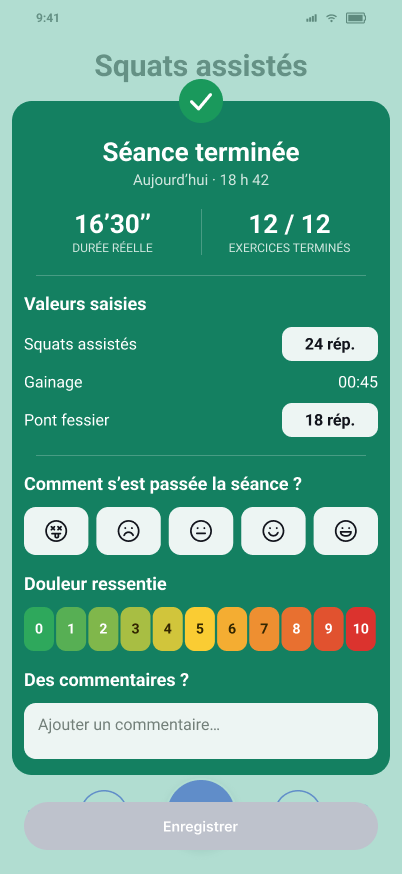
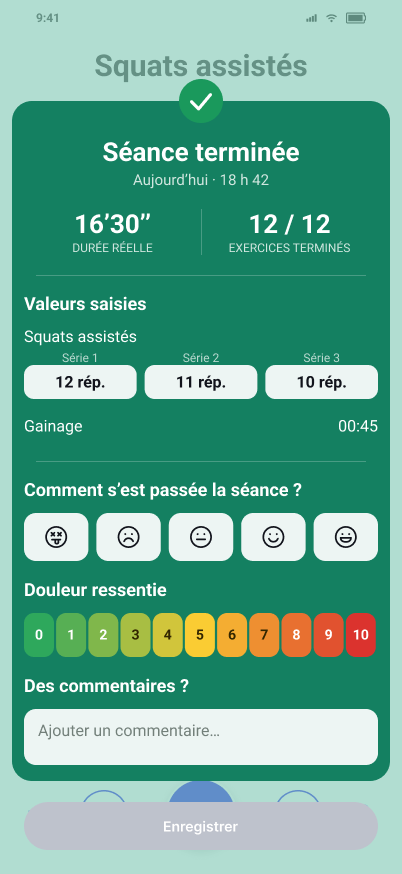
docs(D-578): valeurs saisies en colonnes par tour ou série
Classe B. Tests non applicables.

Claude-Session: https://claude.ai/code/session_0138cCmJPZqMKdiqcqtCSEpU

Changed region(s): [[0.0299, 0.3707, 0.9851, 0.8959]]

diff --git a/docs/Specifications-fonctionnelles/07 – Registre des décisions de conception.md b/docs/Specifications-fonctionnelles/07 – Registre des décisions de conception.md
@@ -2440,7 +2440,7 @@ Source : [KODJO-Catalogues-cartes-modales-2026-11-06](../KODJO-Catalogues-cartes
 | D-575 | **Pages des formats Tabata, 30/30, HIIT et Renforcement ; modale du Renforcement.** (1) Tabata, 30/30, HIIT : colonne « Objectif » renommée « Intervalle » ; la Durée totale est la dernière ligne du cadre des paramètres (après Exécution et, pour le Tabata à la suite, après « Récupération entre les mouvements ») ; la colonne Charge disparaît : la charge est écrite sous la valeur de l'intervalle, en plus petit et entre parenthèses, et rien n'est affiché quand il n'y a pas de charge. (2) Renforcement : même règle pour la charge (sous la valeur de la colonne Objectif) ; la Durée totale vient après la ligne Exécution ; la première colonne du tableau est « Séries » (nombre de séries de chaque mouvement) ; la ligne globale « Nombre de séries » est supprimée de la page. (2 bis) Death by : la charge est écrite sous la valeur de la colonne Départ, comme au point 1, et la colonne Charge disparaît. (2 ter) Dans les tableaux de ces formats, la dernière colonne est alignée à droite. (3) Modale « Paramètres d'exécution » du Renforcement : un premier cadre porte le Mode seul ; un deuxième réunit Nombre de répétitions, Nombre de séries, Pause et Charge ; un troisième De chaque côté + Cadence (D-572). (3 bis) Renforcement, nombre de séries : « À la suite », chaque mouvement a son propre nombre de séries ; « En alternance », les mouvements partagent les tours : le nombre de séries est commun et lié (le modifier pour un mouvement le modifie pour tous, dans le tableau comme dans la modale) ; le passage à « À la suite » conserve la valeur actuelle de chaque mouvement, qui peuvent ensuite différer. (4) Zone de contexte (Composition) : la durée totale est alignée à droite, en noir, au premier plan, par-dessus l'emplacement de l'illustration ; Progression : Durée totale après Exécution. Décisions de Hermann, 26/11/2026 ; la ligne Pause de la modale porte la colonne Pause de la page. | Validée — 26/11/2026 | [KODJO-Formats-entrainement-2026-11-02](../KODJO-Formats-entrainement-2026-11-02.md) § 9.10 |
 | D-576 | **Exécution d'un exercice : permutation des vues et changement de média.** (1) Un glissé horizontal (gauche ou droite) sur la zone du haut permute cadran ↔ gros chiffres ; sur la zone du bas (carte des informations ou média) il permute infos ↔ média. (2) Aucun écran d'exécution ne comporte de bouton ⇄ (retirés partout dans Figma le 26/11/2026) : la permutation des vues se fait uniquement par le glissé. [Remplace le bouton de changement de face de D-203 et la proposition du 26/11/2026 de deux boutons ⇄.] (3) Le glissé ne change plus de média : le changement de média se fait avec des flèches gauche/droite sur la zone média ; la galerie reste à plusieurs médias, ordre de la galerie, non circulaire, flèche inactive à la borne, pagination conservée. (4) Le média reste à la taille du demi-écran tant que le bouton d'extension n'est pas actionné ; les flèches de changement de média existent aussi en plein écran. Décisions de Hermann, 26/11/2026. | Validée — 26/11/2026 | [CONCEPTION-EXECUTION-MEDIA](../CONCEPTION-EXECUTION-MEDIA.md) § 5 |
 | D-577 | **Écran « Avant la séance » (affiché avant l'écran d'exécution avec le compte à rebours).** (1) Contenu : en-tête DSF avec bouton Retour et, pour titre, le nom de la séance (pas de zone de contexte, pas de trait de séparation) ; liste en lignes de texte, sans rail ni cartes (ce n'est pas une copie de la composition), des exercices, cycles et circuits qui vont être exécutés, dans l'ordre de la composition, avec le format de chaque circuit mis en évidence (chiffre en premier : « 8 tours · TABATA » (nom du format en majuscules, pour qu'on voie bien quel format est utilisé ; « Circuit libre » quand le circuit n'a pas de format), « 3 tours · Circuit libre », « 2 cycles » ; sans le détail des durées ni la nature groupées/alternées) ; bouton Commencer. (2) Lancement dans un Programme dont l'option douleur est active (D-427) : échelle de douleur 0–10 (libellé « Douleur ressentie avant la séance », sans légende : les cases 0 à 10 sont colorées du vert au rouge selon leur niveau, les couleurs suffisant à indiquer le sens de l'échelle) obligatoire, sans présélection, Le bouton de départ est inactif tant qu'aucun chiffre n'est choisi ; l'écran est toujours affiché. (3) Autre lancement : pas d'échelle de douleur ; une case à cocher « Ne plus afficher cet écran » est proposée, uniquement dans ce cas, en plus petit, hors du cadre vert, entre le cadre de la liste et celui de la douleur. Elle désactive l'affichage de l'écran pour cette séance seulement, jusqu'à ce que l'ordre ou le contenu de la séance (exercices, cycles, circuits, formats) change ; un changement des paramètres d'exécution (durées, répétitions) ne le fait pas réapparaître. Pour toutes les séances, le réglage « Afficher l'écran de démarrage de séance » (interrupteur, activé par défaut, premier réglage du groupe Séance de Profil › Préférences) affiche l'écran pour toute séance ; désactivé, il ne l'affiche pour aucune. La capture de la douleur ne dépend que du Programme (option douleur, D-427) et n'est pas concernée : les deux informations (liste de la séance, douleur) sont distinctes ; avec l'option douleur active, ni la case ni le réglage ne suppriment la capture : quand l'affichage est désactivé, seule la douleur est demandée : même écran, avec uniquement le deuxième cadre (douleur et départ), centré verticalement sur la page. [Remplace la mention « Facultatif. Sans réponse, la douleur est notée 0 » de l'ancienne version de l'écran, contraire à D-427.] (4) Parcours de plusieurs séances : l'écran existe en deux versions, une pour la première séance, une pour les suivantes (rang ≥ 2, écran de transition avant la séance suivante). La douleur est demandée une seule fois, sur la version de la première séance, et appliquée à toutes les séances du parcours ; la version des séances suivantes n'a pas d'échelle de douleur. Cette version est dessinée dans l'écran Figma « Exécution d'une séance — Initial — Enchaînement (proposition) » (`12716:25405`), qui reprend la présentation de l'écran de la première séance sans l'échelle de douleur (un seul grand cadre vert centré dans la page, contenant le titre, la liste et le bouton « Appuyer pour démarrer la 2ème séance » ; sans « du parcours »), sur le voile vert. (5) Présentation : le premier écran d'exécution de la séance est visible en fond, recouvert sur toute la hauteur du voile vert de l'écran de transition entre séances (DSF-AGENDA), identique à celui de l'écran de transition (même teinte, ≈ 35 %), posé sur un voile blanc à 50 % qui estompe l'écran d'exécution sans assombrir le vert ; le nom n'est pas affiché dans l'en-tête, il l'est comme titre de la carte ; le contenu est porté par une carte blanche, le bouton Retour DSF restant au-dessus du voile. La liste est présentée en une seule taille de texte agrandie (22 pt pour cycles, circuits, formats et exercices ; le titre « Mobilisation du genou » reste à sa taille propre, 26 pt), avec un espace supplémentaire avant chaque bloc circuit ou format (ex. Tabata), les cycles, circuits et formats se distinguant par le gras, sur une carte vert foncé (celui de l'encadré de la transition entre séances) aux textes blancs, avec une indentation par niveau (cycle, circuit, exercices du circuit) ; le titre de la carte (nom de la séance, ou du parcours : « Mobilisation du genou » dans l'écran) est affiché en plus grand, en gras, centré, avec davantage d'espace au-dessus et en dessous, à égale distance du haut du cadre et d'une ligne de pointillés blancs qui le sépare de la liste ; si le titre est trop long, il passe sur deux lignes ; si la liste est plus longue, la carte s'étend vers le haut (le bas reste ancré au-dessus de la carte douleur et départ) ; si elle dépasse encore la hauteur disponible, seule la liste défile, le titre restant toujours visible ; la douleur et Commencer sont sur une carte distincte, en bas de l'écran, de même vert foncé, libellé (gras, 22 pt comme les cycles et circuits) et légende en blanc. Les textes de la liste, de l'échelle de douleur et du bouton de départ sont en Roboto. Chaque exercice de la liste, hors le premier mis en avant, est précédé d'un petit point de liste. (6) Bouton de départ, de hauteur doublée (96 pt) et à texte agrandi : « Appuyer pour démarrer la séance » (séance lancée seule), « Appuyer pour démarrer le parcours » (première séance d'un parcours), « Appuyer pour démarrer la Xème séance du parcours » (séances suivantes), en texte agrandi sur deux lignes, sur fond blanc avec texte bleu du DSF et un effet de relief porté par le bouton lui-même (léger dégradé et bord inférieur épais, sans ombre portée) qui le fait lire comme un bouton (le bouton bleu standard manque de contraste sur le vert). Le chiffre choisi ressort par une case nettement plus grande (≈ 40 × 58 pt), un chiffre plus gros et une ombre portée, sans liseré. Avec l'échelle de douleur, il est inactif tant qu'aucun chiffre n'est choisi ; état inactif (Figma `13419:1329`) : bouton sur fond gris, sans relief, texte gris plus clair ; toutes les cases de l'échelle de même taille, aucune sélectionnée ; l'écran Figma le montre activé, douleur choisie. Décisions de Hermann, 27/11/2026. | Validée — 27/11/2026 | Figma « P-Avant la séance — Douleur » (`8921:35275`) et « Enchaînement (proposition) » (`12716:25405`) ; ch13 CE-EXEC-SESSION-01 ; rendu : `docs/DSF-AVANT-SEANCE-2026-11-27.md` |
-| D-578 | **Écran de fin de séance, état initial (Terminée — évaluation initiale).** Présentation reprise de l'écran « Avant la séance » (D-577) : l'écran d'exécution de la séance en fond sous les deux voiles (blanc 50 %, vert `#1F9E7A` 35 %), polices Roboto. **Un seul cadre vert** `#148061` aux textes blancs, en trois zones séparées discrètement (trait fin blanc à 22 %) : **statut de la séance**, **données enregistrées** (« Valeurs saisies »), **feedback** (ressenti, douleur, commentaires). De haut en bas : symbole de séance terminée (identique à l'icône « Complétée » de l'Agenda, 44 pt), posé à cheval sur le bord haut du cadre, à moitié dehors, « Séance terminée », date et heure, puis deux colonnes réparties horizontalement, séparées par un trait vertical fin (pas de pointillés), chaque valeur centrée sur son libellé : durée réelle au format minutes’secondes’’ (« 16’30’’ ») et exercices terminés (« 12 / 12 »), « Valeurs saisies » (les valeurs capturées pendant la séance, une ligne par exercice concerné : le nombre de répétitions est modifiable, dans un champ ; les durées capturées sont affichées sans pouvoir être modifiées), « Comment s'est passée la séance ? » avec cinq boutons de ressenti, sans libellé, à visages distincts, rangés de gauche à droite du plus négatif au plus positif (très mal, mal, neutre, bien, très bien), « Douleur ressentie » (échelle 0 à 10 colorée, D-577), « Des commentaires ? » (champ facultatif). Les titres de rubrique (valeurs saisies, ressenti, douleur, commentaires) ont la même taille (Roboto Bold 18), avec un espace net entre la question et sa zone de réponse. Le bouton Enregistrer est **hors du cadre**, conforme à la norme du Design system (« Bouton primaire », 354 × 48, état désactivé) et à sa position standard en bas d'écran ; désactivé tant qu'aucun ressenti n'est choisi. La douleur n'est demandée que si le programme l'active (D-427) ; sinon elle disparaît du cadre. Le nom de la séance et la liste détaillée des exercices réalisés sont retirés ; seules les valeurs saisies sont rappelées. À CLARIFIER : liste exacte des exercices et valeurs repris dans « Valeurs saisies » (aujourd'hui trois exemples dans la maquette). Pas de bouton Retour. Les autres états de la synthèse (ressenti sélectionné, séance partielle) sont à décliner sur cette présentation. | Validée — 27/11/2026 | Figma « P-Synthèse de séance — Terminée — Évaluation initiale » (`1992:8718`) ; ch13 CE-UI-08 |
+| D-578 | **Écran de fin de séance, état initial (Terminée — évaluation initiale).** Présentation reprise de l'écran « Avant la séance » (D-577) : l'écran d'exécution de la séance en fond sous les deux voiles (blanc 50 %, vert `#1F9E7A` 35 %), polices Roboto. **Un seul cadre vert** `#148061` aux textes blancs, en trois zones séparées discrètement (trait fin blanc à 22 %) : **statut de la séance**, **données enregistrées** (« Valeurs saisies »), **feedback** (ressenti, douleur, commentaires). De haut en bas : symbole de séance terminée (identique à l'icône « Complétée » de l'Agenda, 44 pt), posé à cheval sur le bord haut du cadre, à moitié dehors, « Séance terminée », date et heure, puis deux colonnes réparties horizontalement, séparées par un trait vertical fin (pas de pointillés), chaque valeur centrée sur son libellé : durée réelle au format minutes’secondes’’ (« 16’30’’ ») et exercices terminés (« 12 / 12 »), « Valeurs saisies » (les valeurs capturées pendant la séance, une ligne par exercice concerné : le nombre de répétitions est modifiable, dans un champ ; les durées capturées sont affichées sans pouvoir être modifiées ; lorsqu'un exercice compte plusieurs tours ou séries, ses valeurs sont présentées en colonnes, une par tour ou série, sous le nom de l'exercice), « Comment s'est passée la séance ? » avec cinq boutons de ressenti, sans libellé, à visages distincts, rangés de gauche à droite du plus négatif au plus positif (très mal, mal, neutre, bien, très bien), « Douleur ressentie » (échelle 0 à 10 colorée, D-577), « Des commentaires ? » (champ facultatif). Les titres de rubrique (valeurs saisies, ressenti, douleur, commentaires) ont la même taille (Roboto Bold 18), avec un espace net entre la question et sa zone de réponse. Le bouton Enregistrer est **hors du cadre**, conforme à la norme du Design system (« Bouton primaire », 354 × 48, état désactivé) et à sa position standard en bas d'écran ; désactivé tant qu'aucun ressenti n'est choisi. La douleur n'est demandée que si le programme l'active (D-427) ; sinon elle disparaît du cadre. Le nom de la séance et la liste détaillée des exercices réalisés sont retirés ; seules les valeurs saisies sont rappelées. À CLARIFIER : liste exacte des exercices et valeurs repris dans « Valeurs saisies » (aujourd'hui trois exemples dans la maquette). Pas de bouton Retour. Les autres états de la synthèse (ressenti sélectionné, séance partielle) sont à décliner sur cette présentation. | Validée — 27/11/2026 | Figma « P-Synthèse de séance — Terminée — Évaluation initiale » (`1992:8718`) ; ch13 CE-UI-08 |
 | D-579 | **Ressenti de séance à cinq niveaux (très bien, bien, neutre, mal, très mal).** Le choix du ressenti passe de trois à cinq niveaux, chacun avec un visage distinct, sans libellé, rangés du plus négatif (à gauche) au plus positif (à droite) : très mal (yeux en croix, langue tirée, sans bouche ouverte), mal (moue), neutre, bien (sourire), très bien (sourire large, bouche en contour transparent). Appliqué pour l'instant à l'écran de fin de séance (D-578). À CLARIFIER : extension aux autres écrans de synthèse, au composant de ressenti du Design system, aux cartes du flux et à la donnée enregistrée (aujourd'hui trois valeurs). | Validée — 27/11/2026 (écran de fin de séance) ; extension à arbitrer | Figma « P-Synthèse de séance — Terminée — Évaluation initiale » (`1992:8718`) |
 
 

diff --git a/docs/Specifications-fonctionnelles/13 – Contrats d’écran.md b/docs/Specifications-fonctionnelles/13 – Contrats d’écran.md
@@ -534,7 +534,7 @@ L’inventaire ci-dessous suit les frames `P-` de la page Figma `Prototype MVP` 
 | [`1992:6838`](https://www.figma.com/design/G6RY5Ebhgwb4AHIOYDwwvg?node-id=1992-6838) | Planifier une séance — Création | `CE-UI-05` | — |
 | [`1992:8132`](https://www.figma.com/design/G6RY5Ebhgwb4AHIOYDwwvg?node-id=1992-8132) | Exécution d'une séance — Démarrée | `CE-EXEC-SESSION-01` | — |
 | [`4968:8188`](https://www.figma.com/design/G6RY5Ebhgwb4AHIOYDwwvg?node-id=4968-8188) | Exécution d'un exercice — Démarrée | `CE-T03-10` | — |
-| [`1992:8718`](https://www.figma.com/design/G6RY5Ebhgwb4AHIOYDwwvg?node-id=1992-8718) | Synthèse de séance — Terminée —  Évaluation initiale | `CE-UI-08` | D-578 — présentation de l'écran « Avant la séance » : un seul cadre vert en trois zones séparées par un trait fin (statut, données enregistrées, feedback), symbole à cheval sur le bord haut (synthèse en deux colonnes, valeurs saisies — répétitions modifiables, durées non modifiables —, ressenti, douleur, commentaire) sur l'écran d'exécution voilé ; Enregistrer hors cadre, « Bouton primaire » désactivé du Design system (354 × 48) sans ressenti ; symbole identique à « Complétée » de l'Agenda |
+| [`1992:8718`](https://www.figma.com/design/G6RY5Ebhgwb4AHIOYDwwvg?node-id=1992-8718) | Synthèse de séance — Terminée —  Évaluation initiale | `CE-UI-08` | D-578 — présentation de l'écran « Avant la séance » : un seul cadre vert en trois zones séparées par un trait fin (statut, données enregistrées, feedback), symbole à cheval sur le bord haut (synthèse en deux colonnes, valeurs saisies — répétitions modifiables, durées non modifiables, en colonnes par tour ou série —, ressenti, douleur, commentaire) sur l'écran d'exécution voilé ; Enregistrer hors cadre, « Bouton primaire » désactivé du Design system (354 × 48) sans ressenti ; symbole identique à « Complétée » de l'Agenda |
 | [`4968:8055`](https://www.figma.com/design/G6RY5Ebhgwb4AHIOYDwwvg?node-id=4968-8055) | Synthèse d'exécution — Exercice Terminé —  Évaluation initiale | `CE-T03-14` | — |
 | [`1992:8843`](https://www.figma.com/design/G6RY5Ebhgwb4AHIOYDwwvg?node-id=1992-8843) | Suivi — Séances — Liste condensée [écran supprimé le 20/11/2026 : historique présenté dans l’Agenda] | `CE-T03-15` | — |
 | [`1992:9910`](https://www.figma.com/design/G6RY5Ebhgwb4AHIOYDwwvg?node-id=1992-9910) | Catalogue des séances — Liste par défaut | `CE-T03-01` | — |

diff --git a/.github/orchestration/reports/2026-11-18_PLANIF-GRILLE-DOC.md b/.github/orchestration/reports/2026-11-18_PLANIF-GRILLE-DOC.md
@@ -361,3 +361,4 @@
 - Complément (suite 22 octies, D-578) : fin de séance 1992:8718, « Des commentaires ? », « exercices terminés », chiffres centrés en deux colonnes, section « Valeurs saisies » (répétitions modifiables, durées non modifiables). Liste des valeurs reprises à préciser. Classe B ; tests non applicables.
 - Complément (suite 22 nonies, D-578) : fin de séance 1992:8718, symbole à cheval sur le bord haut du cadre, trois zones (statut / données enregistrées / feedback) séparées par un trait fin. Classe B ; tests non applicables.
 - Complément (suite 22 decies, D-578) : fin de séance 1992:8718, durée au format 16’30’’, plus d'espace entre questions et réponses, pointillés remplacés par un trait vertical entre durée et exercices. Classe B ; tests non applicables.
+- Complément (suite 22 undecies, D-578) : fin de séance 1992:8718, « Valeurs saisies » en colonnes par tour/série pour un exercice à plusieurs tours ou séries (maquette : Squats assistés en 3 séries, Gainage en valeur unique). Classe B ; tests non applicables.
